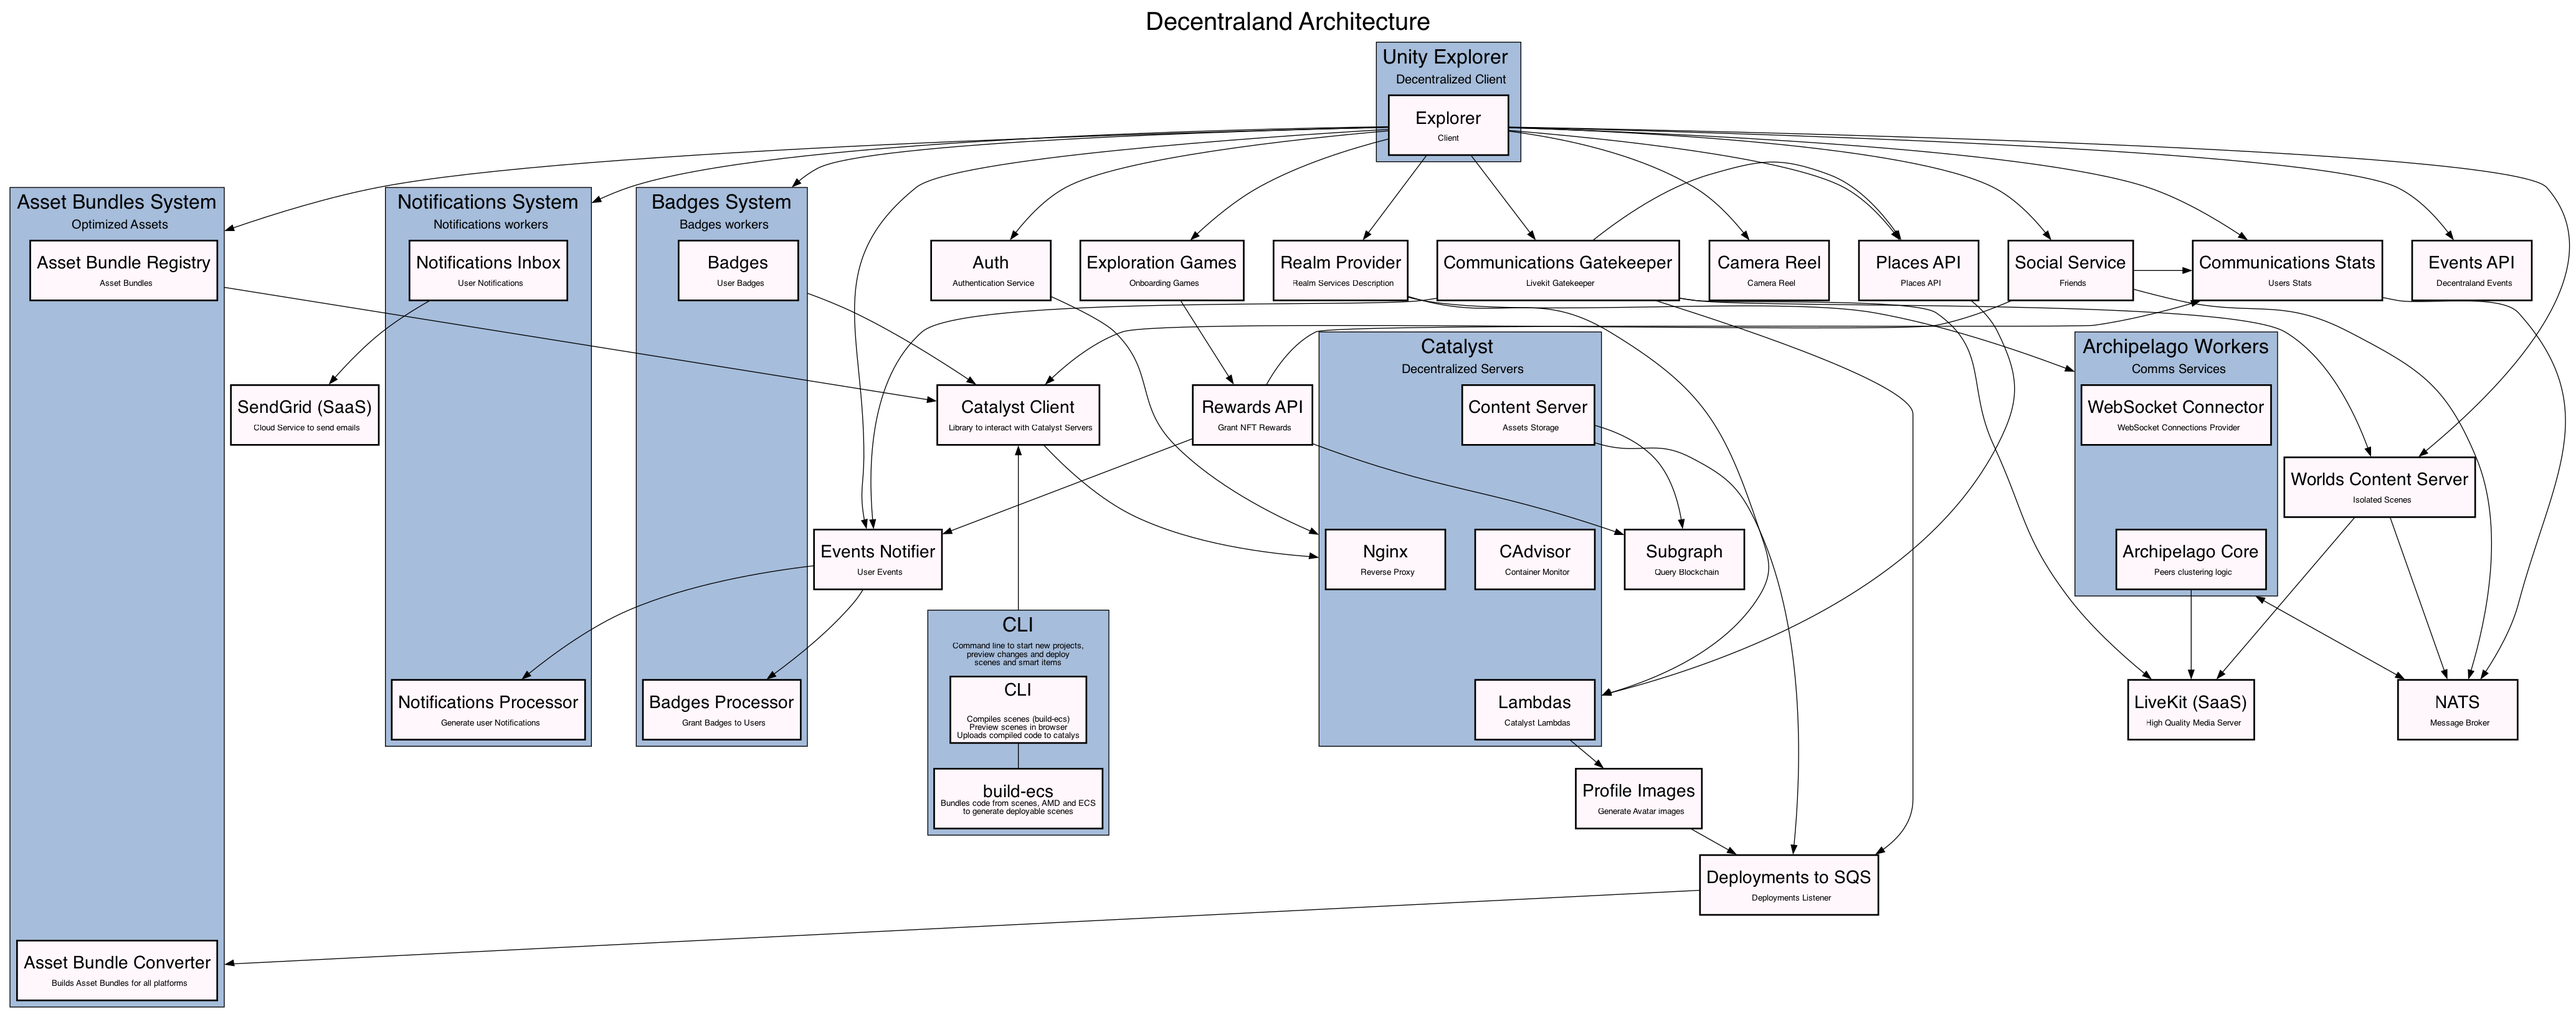
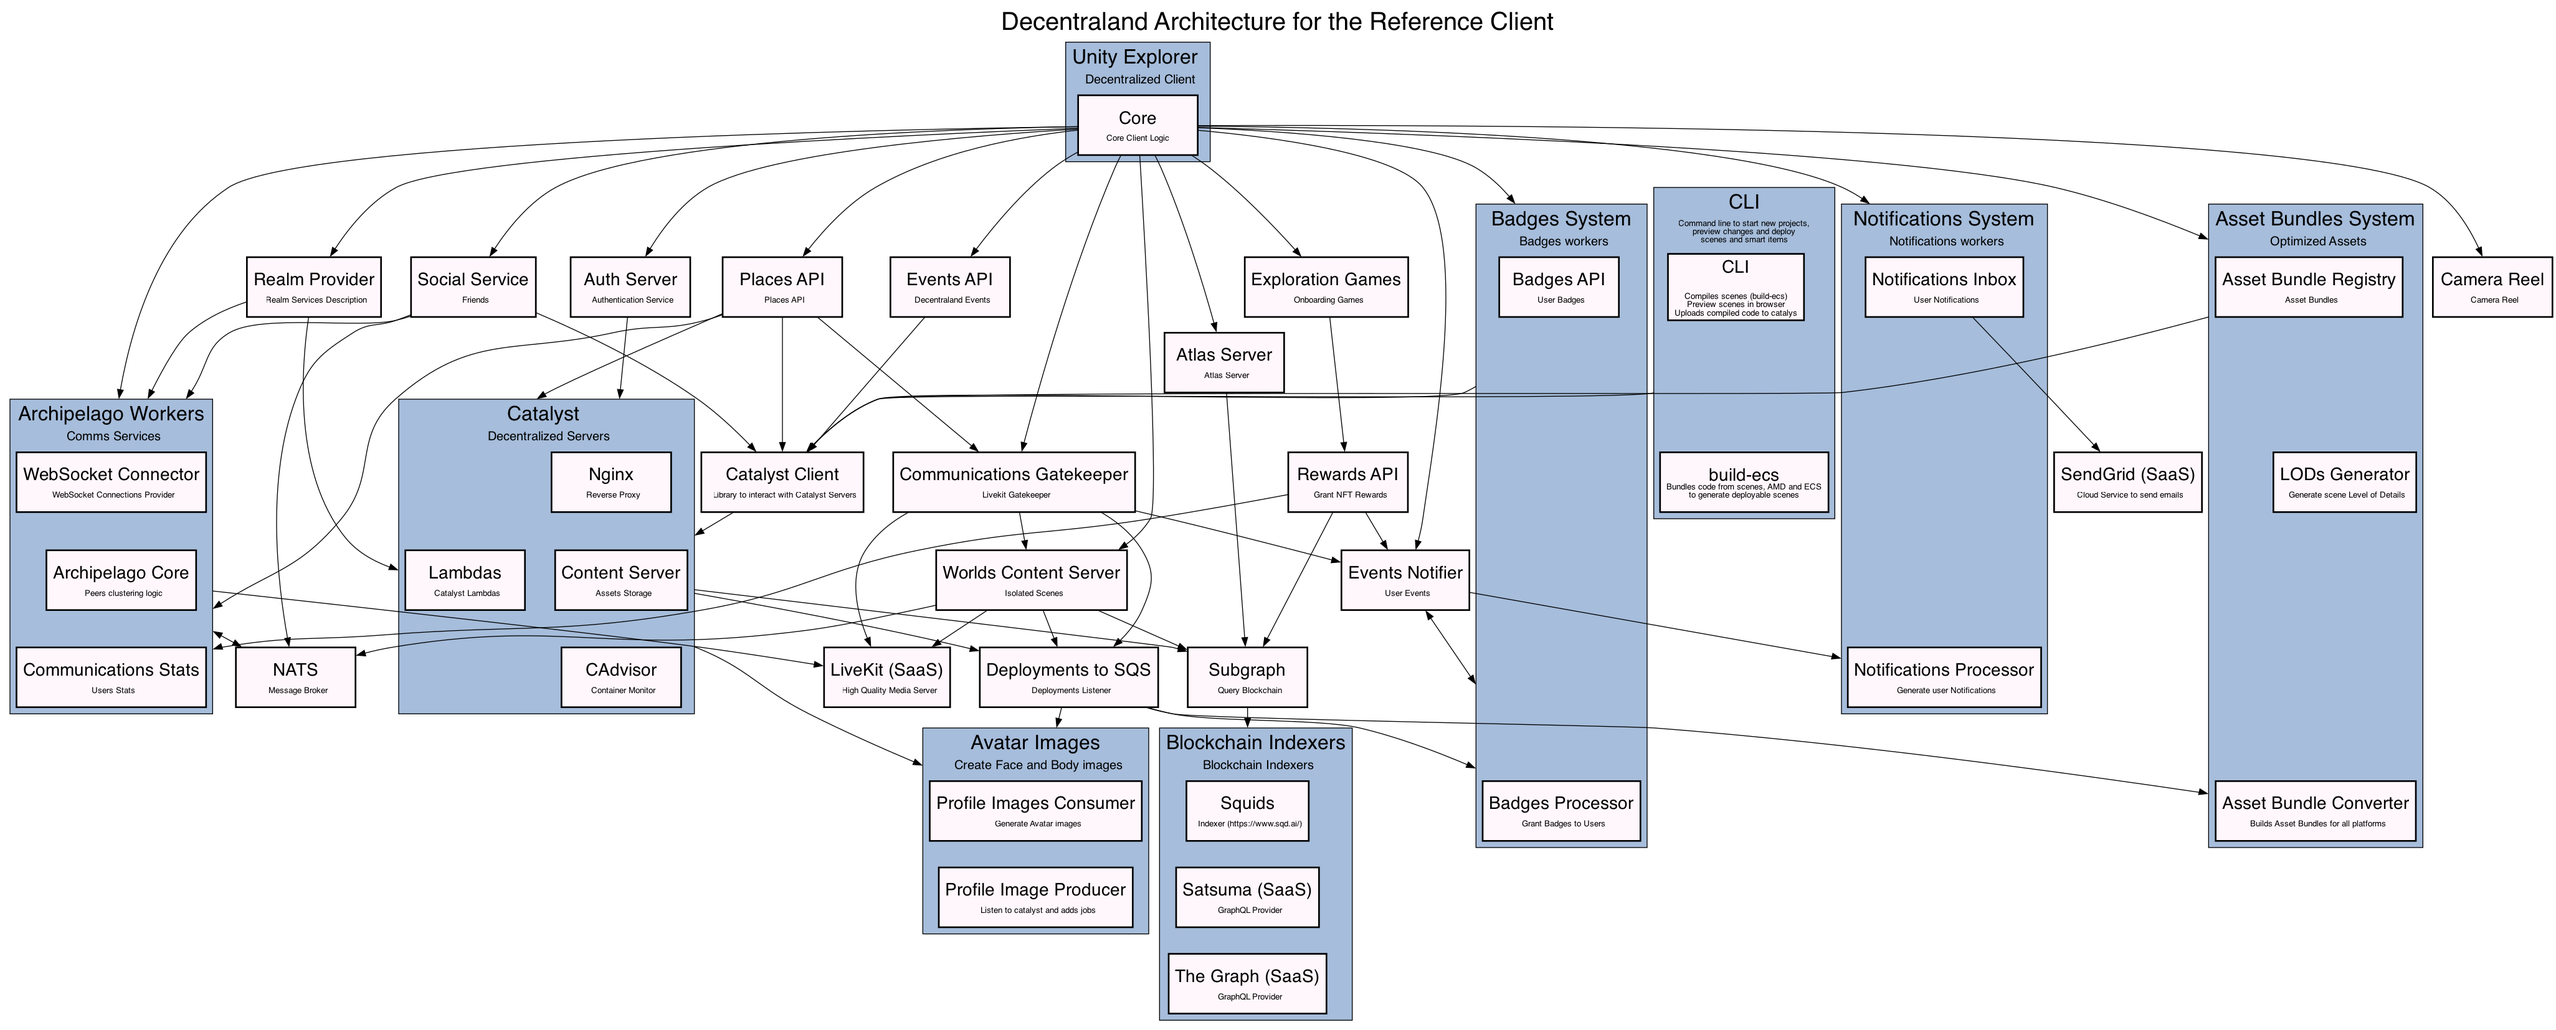
docs: improvements

diff --git a/docs/dcl-architecture.md b/docs/dcl-architecture.md
@@ -1,60 +1,100 @@
 ---
-title: "Platform Overview"
+title: "Decentraland Platform Architecture"
 slug: /contributor/architecture/platform
+description: "Comprehensive overview of Decentraland's platform architecture, components, and services"
 ---
 
-This document provides an overview of the Decentraland Platform architecture and its components:
+# Decentraland Platform Architecture
+
+This document provides a comprehensive overview of the Decentraland Platform architecture, detailing its core components, services, and their interactions. The platform is built on a decentralized infrastructure that enables a persistent, shared virtual world.
 
 ![architecture](architecture.png)
 
 ## Table of Contents
 
-- [Catalyst](#catalyst) 
-  - [Archipelago Service](#archipelago-service)
-  - [NATS](#nats)
-  - [LiveKit](#livekit)
-  - [Lambdas](#lambdas)
-  - [Content Server](#content-server)
-  - [Nginx](#nginx)
-- [Catalyst Client](#catalyst-client)
-- [CLI](#cli)
+- [Core Infrastructure](#core-infrastructure)
+  - [Catalyst](#catalyst)
+    - [Archipelago Service](#archipelago-service)
+    - [NATS](#nats)
+    - [LiveKit](#livekit)
+    - [Lambdas](#lambdas)
+    - [Content Server](#content-server)
+    - [Nginx](#nginx)
+  - [Realm Provider](#realm-provider)
+- [Communication Infrastructure](#communication-infrastructure)
+  - [Archipelago Workers](#archipelago-workers)
+  - [Communications GateKeeper](#communications-gatekeeper)
+- [Content Management](#content-management)
+  - [Asset Bundles System](#asset-bundles-system)
+  - [Worlds Content Server](#worlds-content-server)
+  - [Atlas Server](#atlas-server)
+- [User Services](#user-services)
+  - [Auth](#auth)
+  - [Social Service](#social-service)
+  - [Badges System](#badges-system)
+  - [Camera Reel](#camera-reel)
+- [Development Tools](#development-tools)
+  - [CLI](#cli)
+  - [Catalyst Client](#catalyst-client)
+- [Engagement Features](#engagement-features)
+  - [Exploration Games](#exploration-games)
+  - [Rewards](#rewards)
+  - [Events API](#events-api)
+  - [Places API](#places-api)
+  - [Events Notifier](#events-notifier)
 
-## Catalyst (Decentralized Content)
+## Core Infrastructure
 
-Catalyst servers bundle various services that form the backbone of Decentraland, providing decentralized storage for most of the content required by clients.
+### Catalyst (Decentralized Content)
 
-- [Lambdas](https://github.com/decentraland/catalyst/tree/main/lambdas): Offers utilities for Catalyst Server Clients/Consumers to retrieve or validate data, including ownership validations using the Subgraph API to query the blockchain.
-- [Content Server](https://github.com/decentraland/catalyst/tree/main/content): Stores entities like scenes, wearables, emotes, and profiles, automatically syncing with other approved servers.
-- [Archipelago Service](https://github.com/decentraland/archipelago-service) (Optional): Provides client communication capabilities, though most nodes rely on external Archipelago Workers for the default Decentraland realm.
-- [Nginx](https://nginx.org/en/docs/): Functions as a reverse proxy to route traffic within Catalyst Services.
+Catalyst servers form the backbone of Decentraland's decentralized infrastructure, providing essential services for content storage and distribution. These servers are responsible for maintaining the persistent state of the virtual world.
 
-For running a Catalyst server, refer to the [Catalyst Owner](https://github.com/decentraland/catalyst-owner) repository. View available servers on the [Catalyst Monitor](https://catalyst-monitor.vercel.app/).
+#### Key Components
 
-## Realm Provider
+- **Lambdas** ([Repository](https://github.com/decentraland/catalyst/tree/main/lambdas)): Provides utilities for Catalyst Server Clients/Consumers, including:
+  - Data retrieval and validation
+  - Blockchain ownership validations via Subgraph API
+  - Service integration endpoints
 
-The Realm Provider service delivers a realm description ([ADR-110](https://adr.decentraland.org/adr/ADR-110)) detailing the necessary services for client connection. It selects any Catalyst and Lambdas service from the Catalyst Network and provides access to the default MAIN realm, managed by the Archipelago Workers.
+- **Content Server** ([Repository](https://github.com/decentraland/catalyst/tree/main/content)): Manages decentralized storage for:
+  - Scenes
+  - Wearables
+  - Emotes
+  - User profiles
+  - Automatic synchronization with approved servers
 
-[Repository](https://github.com/decentraland/realm-provider)
+- **Archipelago Service** ([Repository](https://github.com/decentraland/archipelago-service)): Optional service providing client communication capabilities. Most nodes utilize external Archipelago Workers for the default Decentraland realm.
+
+- **Nginx** ([Documentation](https://nginx.org/en/docs/)): Acts as a reverse proxy, managing traffic routing within Catalyst Services.
+
+> **Note**: For running a Catalyst server, refer to the [Catalyst Owner](https://github.com/decentraland/catalyst-owner) repository. View available servers on the [Catalyst Monitor](https://catalyst-monitor.vercel.app/).
+
+### Realm Provider
+
+The Realm Provider service ([Repository](https://github.com/decentraland/realm-provider)) implements [ADR-110](https://adr.decentraland.org/adr/ADR-110), providing realm descriptions that specify the services required for client connections. It:
+
+- Selects Catalyst and Lambdas services from the Catalyst Network
+- Manages access to the default MAIN realm
+- Coordinates with Archipelago Workers
+
+## Communication Infrastructure
 
 ### Archipelago Workers
 
-Archipelago Workers support a standalone realm in Decentraland, implementing clustering logic to group users by their in-world positions, and providing WebSocket connections and stats services.
+Archipelago Workers ([Repository](https://github.com/decentraland/archipelago-workers)) support standalone realms in Decentraland by:
 
-[Repository](https://github.com/decentraland/archipelago-workers)
+- Implementing user clustering logic based on in-world positions
+- Providing WebSocket connections
+- Managing stats services
+- Enabling real-time user interactions
 
-### NATS
+### Communications GateKeeper
 
-NATS is a message broker facilitating data exchange and communication between services, enabling subject-based messaging for easy service connections.
+- [Comms Gatekeeper](https://github.com/decentraland/comms-gatekeeper):The comms-gatekeeper service acts as the guardian of LiveKit tokens within Decentraland's communication architecture. It processes signed fetch requests from clients and generates tokens that grant access to LiveKit rooms dedicated to specific scenes-rooms or worlds. Notably, LiveKit rooms for Archipelago follow a separate communication channel, ensuring proper routing and isolation (more dtails about the comms architecture in [ADR-204](https://adr.decentraland.org/adr/ADR-204)).
 
-[Project Link](https://nats.io/)
+## Content Management
 
-### LiveKit (SaaS)
-
-LiveKit is an open-source project for scalable, multi-user conferencing over WebRTC, utilizing a Selective Forwarding Unit (SFU) for message relay and communication quality management.
-
-[Project Link](https://livekit.io/)
-
-## Asset Bundles System
+### Asset Bundles System
 
 The Asset Bundle System generates optimized asset versions for the Catalyst network. Upon deployment of a scene, emote, or wearable, conversions are initiated for each platform (macOS, WebGL, Windows), with the Asset Bundle Registry updated to ensure the latest bundles are available.
 
@@ -62,14 +102,38 @@ The Asset Bundle System generates optimized asset versions for the Catalyst netw
 - [Asset Bundle Converter](https://github.com/decentraland/asset-bundle-converter): Processes deployments, uploads optimized versions to the CDN, and notifies the registry.
 - [LODs Generator](https://github.com/decentraland/lods-generator): Processes scenes to generate versions with varying detail levels for resource-efficient rendering.
 
-## Badges System
+### Worlds Content Server
+
+- [World's Content Server](https://github.com/decentraland/worlds-content-server) allows scenes to be uploaded using ENS NAMES instead of Genesis City LANDs. Worlds can be kept private or shared with others via a simple link. With the capacity to host up to 100 concurrent users, worlds can be utilized to host events, showcase work, or as a blank canvas to unleash creativity and experiment.
+
+### Atlas Server
+
+- [Atlas Server](https://github.com/decentraland/atlas-server): The Atlas service provides comprehensive information for the Atlas map, including details on roads, points of interest, land sales, and other essential data to enhance and beautify the Genesis City map.
+
+## User Services
+
+### Auth
+
+- [Auth Server](https://github.com/decentraland/auth-server) Server in charge of communication between the decentraland desktop client and the [auth dapp](https://github.com/decentraland/auth) on the browser. Allows the desktop client to execute wallet methods (eth_sendTransaction, personal_sign, etc.) using the wallet the user has on their browser by leveraging the auth dapp.
+
+### Social Service
+
+- [Social Service](https://github.com/decentraland/social-service-ea): This service is designed to manage social interactions, including friendship lifecycle management, connectivity status, and user blocking.
+
+### Badges System
 
 The Badges service manages user achievements in Decentraland, guiding users through platform activities.
 
 - [badges-api](https://github.com/decentraland/badges): Exposes endpoints for badge interaction.
 - [badges-processor](https://github.com/decentraland/badges): Listens to events, updates progress, grants badges, and handles notifications.
 
-## CLI
+### Camera Reel
+
+- [Camera Reel](https://github.com/decentraland/camera-reel-service/) The Camera Reel Service is a simple solution designed specifically for uploading and retrieving camera images taken from Decentraland Explorer. This service enables users to capture and store images with additional metadata, providing valuable context to enhance their visual content.
+
+## Development Tools
+
+### CLI
 
 The [CLI](https://github.com/decentraland/cli) provides tools and commands for scene development, including project scaffolding, local testing, and deployment to content servers.
 
@@ -77,35 +141,31 @@ The [CLI](https://github.com/decentraland/cli) provides tools and commands for s
 - [CLI Source Code](https://github.com/decentraland/cli)
 - [Examples and Tutorials](https://github.com/decentraland-scenes/Awesome-Repository)
 
-## Catalyst Client
+### Catalyst Client
 
 This [library](https://github.com/decentraland/catalyst-client) facilitates interactions with Decentraland's Catalyst servers, enabling data fetching and entity deployment.
 
 **Repositories**:
 - [Library Source Code](https://github.com/decentraland/catalyst-client)
 
-## Worlds Content Server 
+## Engagement Features
 
-- [World's Content Server](https://github.com/decentraland/worlds-content-server) allows scenes to be uploaded using ENS NAMES instead of Genesis City LANDs. Worlds can be kept private or shared with others via a simple link. With the capacity to host up to 100 concurrent users, worlds can be utilized to host events, showcase work, or as a blank canvas to unleash creativity and experiment. 
+### Exploration Games
 
-## Auth 
+- [Exploration Games](https://github.com/decentraland/exploration-games): The exploration games server is designed to create engaging challenges for users in Genesis City, encouraging world exploration and enhancing user engagement. It allows players to participate in various games, complete challenges, and earn rewards. This service tracks user progress across all available challenges, links to specific scenes in Genesis City where these challenges are hosted, and provides rewards to users upon completion.
 
-- [Auth Server](https://github.com/decentraland/auth-server) Server in charge of communication between the decentraland desktop client and the [auth dapp](https://github.com/decentraland/auth) on the browser. Allows the desktop client to execute wallet methods (eth_sendTransaction, personal_sign, etc.) using the wallet the user has on their browser by leveraging the auth dapp. 
+### Rewards
 
-## Social Service 
+- [Rewards](https://github.com/decentraland/referral): Rewards is a `closed-source` service available for public use that enables users to create campaigns featuring rewards, which can be claimed through dispensers added to various scenes. Content creators can utilize [the rewards service](https://decentraland.org/rewards/) to showcase their collections and reward users for attending events, completing challenges, participating in marketing campaigns, or simply for fun.
 
-- [Social Service](https://github.com/decentraland/social-service-ea): This service is designed to manage social interactions, including friendship lifecycle management, connectivity status, and user blocking. 
+### Events API
 
-## Camera Reel 
+- [Events](https://github.com/decentraland/events): This service integrates with the Events dApp, which is used to upload information about various happenings in Decentraland, providing visibility and discoverability for events such as the Metaverse Fashion Week, Metaverse Music Festival, Art Week, and any other user-hosted events.
 
-## Exploration Games 
+### Places API
 
-## Rewards
+- [Places](https://github.com/decentraland/places): In addition to events, [Places](https://decentraland.org/places/) is another service focused on visibility and discoverability. It provides information about Decentraland scenes in both Worlds and Genesis City, allowing users to explore these scenes by category. Users can categorize and publish their own scenes, while the service also highlights the most active and popular locations based on user preferences.
 
-## Communications GateKeeper  
+### Events Notifier
 
-## Events API 
-
-## Places API 
-
-## Events Notifier 
+- [Events Notifier](https://github.com/decentraland/events-notifier): This service is responsible for publishing blockchain events to internal systems. It runs cron jobs that analyze specific blockchain events and publish them to an event-driven architecture (SNS/SQS).
